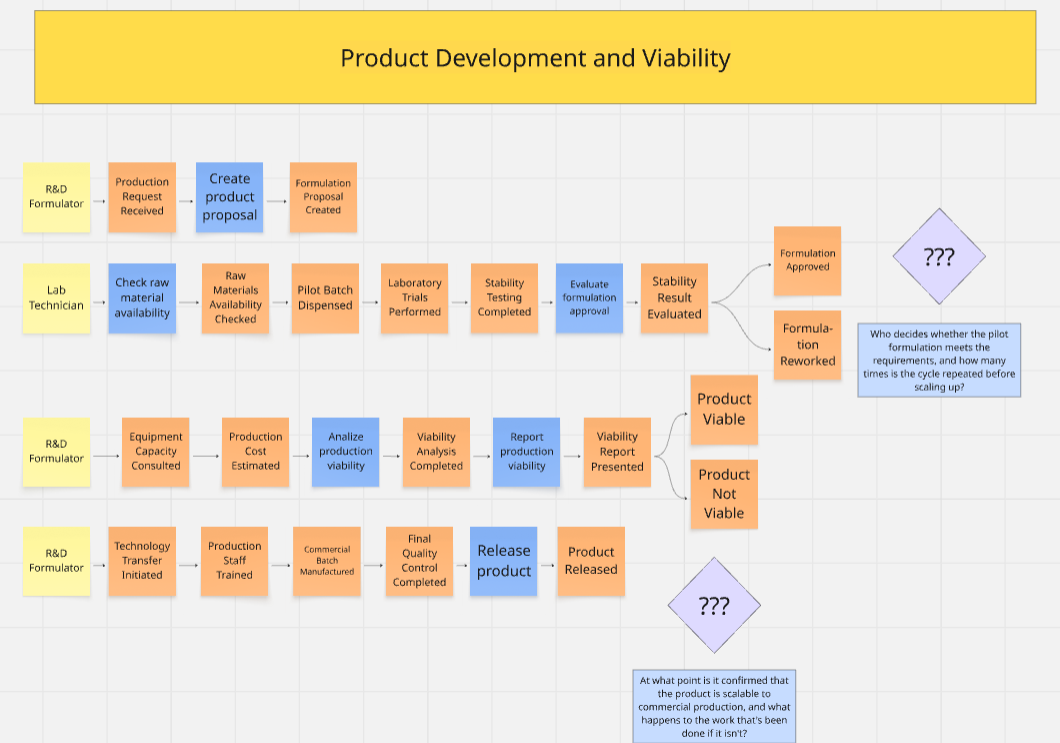
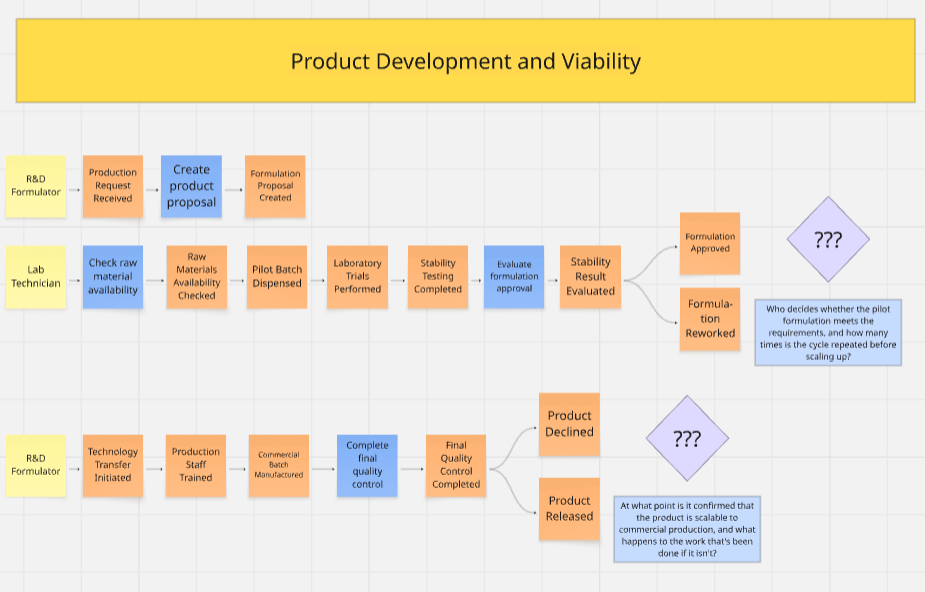
docs(event-storming): update commands and add Read Models section

diff --git a/report/main-content/24-strategic-level-ddd.md b/report/main-content/24-strategic-level-ddd.md
@@ -51,7 +51,7 @@ En este paso, se incluyen los comandos, los cuales indican las acciones que se r
 |**Lab Technician**|Identify area, define environmental requirements, record measurements, measure environmental information, identify raw material, check raw material availability, evaluate formulation approval.|
 |**Quality Staff**|Review measurement records, check raw material information, evaluate raw material information, check environmental conditions, notify environmental deviation, check environmental conditions records, look up environmental conditions, record environmental deviation, write quality record, review quality records, review historial records, review deviation records, summarize quality information, perform quality control, evaluate batch, analize sample, start environmental monitoring.|
 |**Production Staff**|Identify batch, select raw materials, complete production|
-|**R&D Formulator**|Create product, analize production viability, report production viability, release product|
+|**R&D Formulator**|Create product proposal, complete final quality control|
 |**Warehouse Staff**|Update raw material inventory, record batch updates, allocate product stock|
 |**Logistics Staff**|Monitor cold chain|
 
@@ -96,6 +96,13 @@ En este paso se incluyen las políticas del negocio (Reglas *Whenever* sucede un
 ![Step 3 - Policies and Actors](../assets/img/chapter-iv/es-policies-6.png)
 ![Step 3 - Policies and Actors](../assets/img/chapter-iv/es-policies-7.png)
 ![Step 3 - Policies and Actors](../assets/img/chapter-iv/es-policies-8.png)
+
+**Paso 4: Read Models**
+
+Los read models representan todo lo que se va a ver en la interfaz de usuario. Estos permitiran visualizar las futuras vistas dentro del Design-Level Event Storming.
+
+**Modelos de lectura identificados**
+- 
 
 #### 4.1.1.1 Candidate Context Discovery. 
 #### 4.1.1.2 Domain Message Flows Modeling. 
